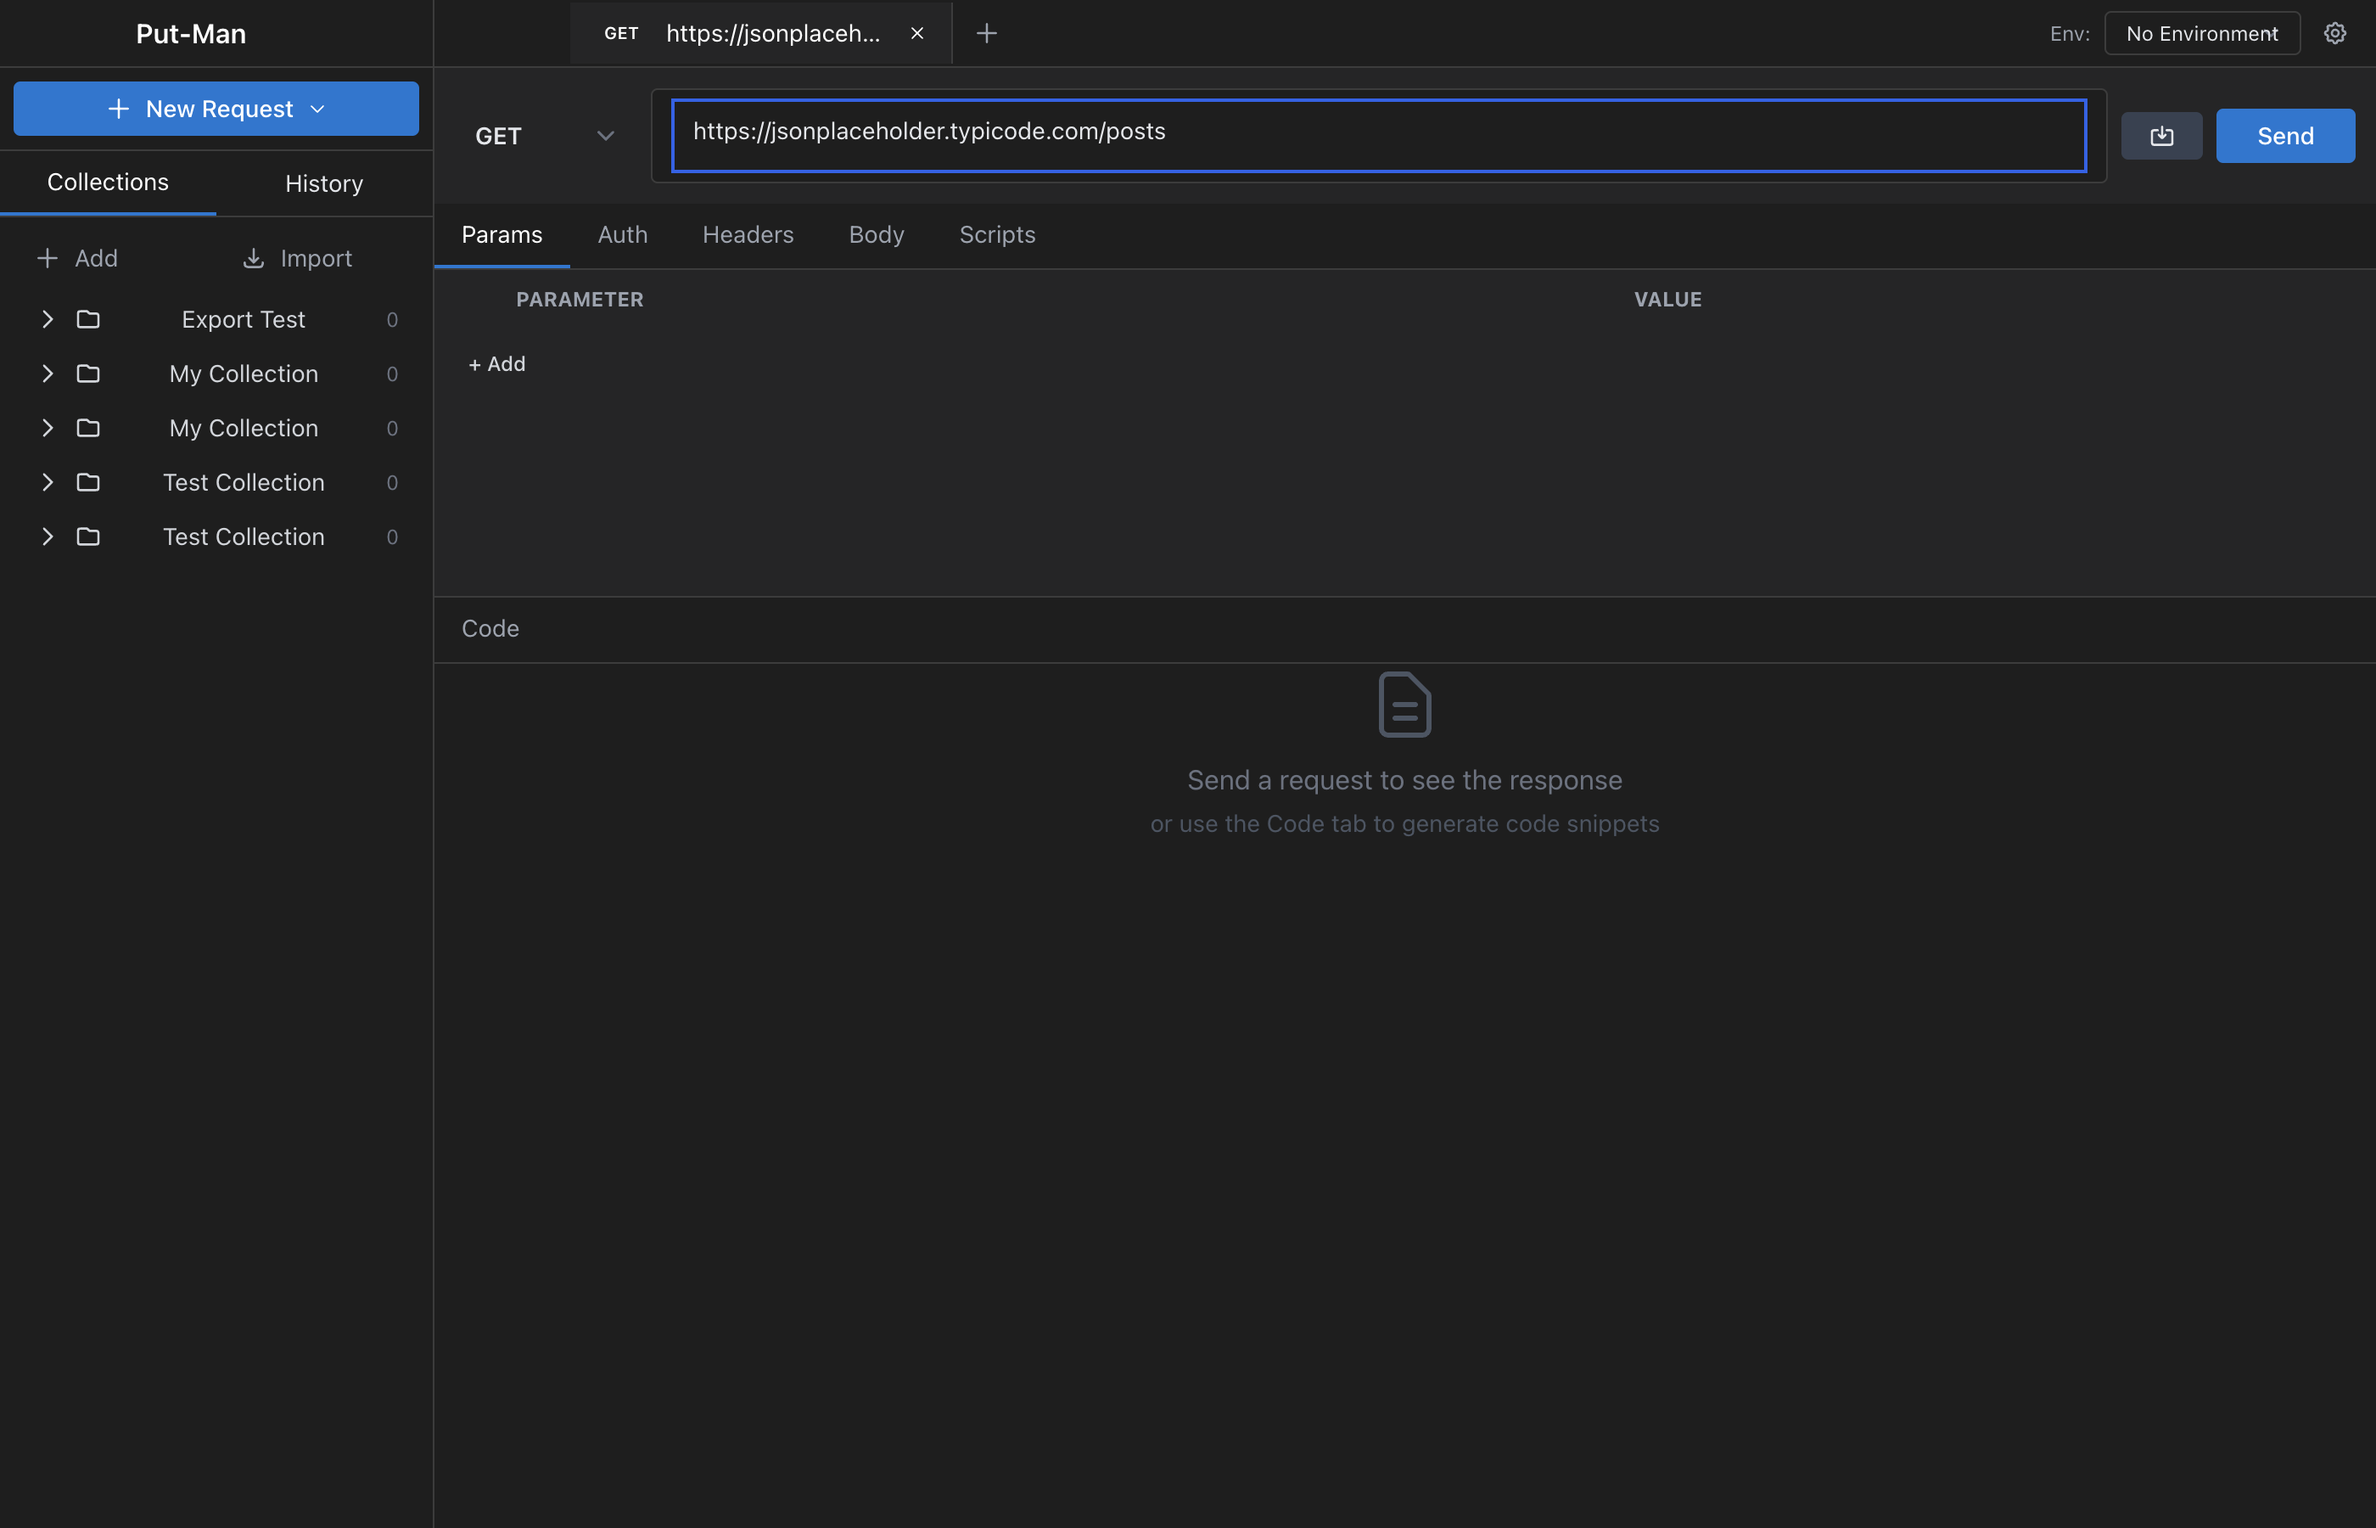
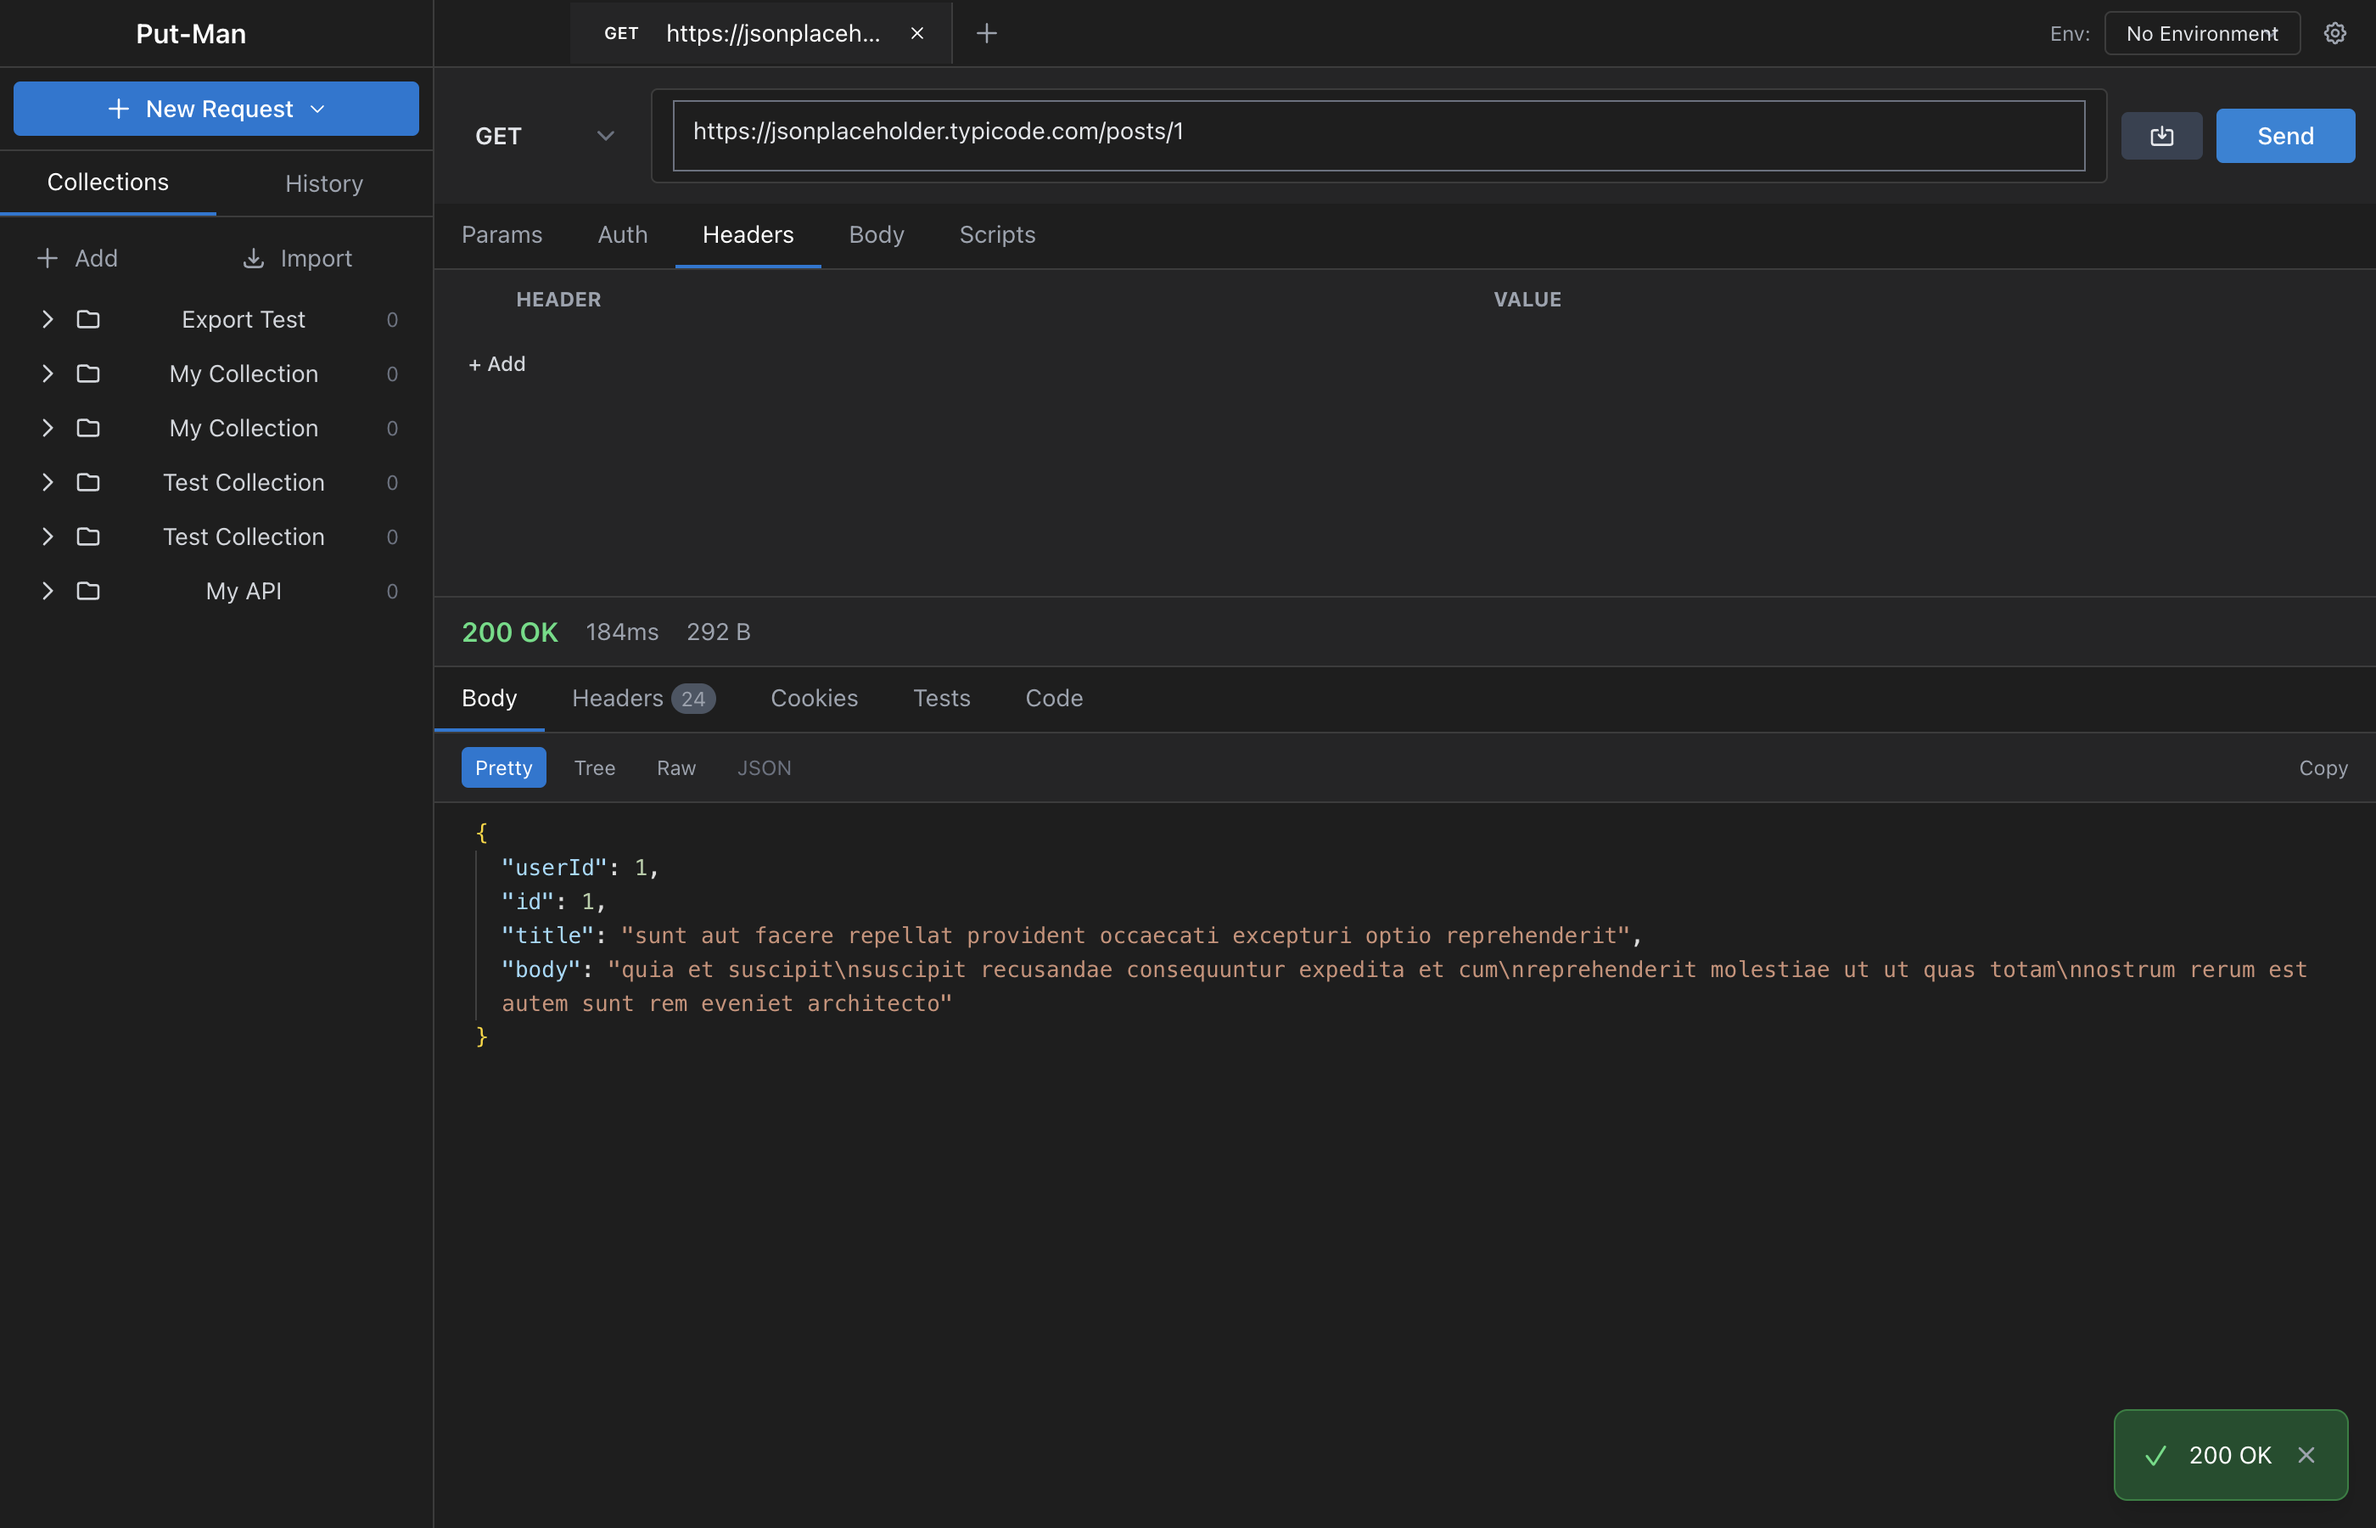
Improve promotional screenshot with response data
- Updated screenshot spec to show collection, headers, and API response
- Screenshot now displays a complete request/response cycle
- Shows more dynamic app behavior for README

diff --git a/e2e/screenshot.spec.ts b/e2e/screenshot.spec.ts
@@ -21,6 +21,17 @@ test.describe('Promotional Screenshot', () => {
     // Wait for app to be fully ready
     await page.waitForTimeout(2000)
 
+    // Create a collection first
+    const addBtn = page.locator('button:has-text("Add")').first()
+    await addBtn.click()
+    await page.waitForTimeout(300)
+
+    // Fill collection name
+    const collectionInput = page.locator('input[placeholder="Collection name"]')
+    await collectionInput.fill('My API')
+    await page.keyboard.press('Enter')
+    await page.waitForTimeout(500)
+
     // Click the New Request dropdown button
     const newRequestBtn = page.locator('button:has-text("New Request")').first()
     await newRequestBtn.click()
@@ -31,13 +42,48 @@ test.describe('Promotional Screenshot', () => {
     await httpOption.click()
     await page.waitForTimeout(1000)
 
-    // Now we should have a tab with URL input
-    // Look for the URL input with the actual placeholder
-    const urlInput = page.locator('input[type="text"]').filter({ hasText: '' }).first()
+    // Find the URL input and fill it
+    const urlInput = page.locator('input[type="text"]').first()
     await urlInput.waitFor({ state: 'visible', timeout: 5000 })
+    await urlInput.fill('https://jsonplaceholder.typicode.com/posts/1')
+    await page.waitForTimeout(300)
 
-    // Fill in a sample URL
-    await urlInput.fill('https://jsonplaceholder.typicode.com/posts')
+    // Click Params tab and add a parameter
+    await page.click('button:has-text("Params")')
+    await page.waitForTimeout(300)
+
+    // Find and fill parameter key/value inputs
+    const paramKeyInput = page.locator('input[placeholder="Key"]').first()
+    const paramValueInput = page.locator('input[placeholder="Value"]').first()
+    if (await paramKeyInput.isVisible()) {
+      await paramKeyInput.fill('userId')
+      await paramValueInput.fill('1')
+    }
+    await page.waitForTimeout(300)
+
+    // Click Headers tab and add a header
+    await page.click('button:has-text("Headers")')
+    await page.waitForTimeout(300)
+
+    const headerKeyInput = page.locator('input[placeholder="Key"]').first()
+    const headerValueInput = page.locator('input[placeholder="Value"]').first()
+    if (await headerKeyInput.isVisible()) {
+      await headerKeyInput.fill('Accept')
+      await headerValueInput.fill('application/json')
+    }
+    await page.waitForTimeout(300)
+
+    // Send the request
+    await page.click('button:has-text("Send")')
+
+    // Wait for response
+    await page.waitForTimeout(3000)
+
+    // Check if response panel shows status
+    const responseStatus = page.locator('text=/200|OK/')
+    await responseStatus.waitFor({ state: 'visible', timeout: 10000 }).catch(() => {})
+
+    // Click on Headers tab to show we're on Params, then back to see response
     await page.waitForTimeout(500)
 
     // Take the screenshot
